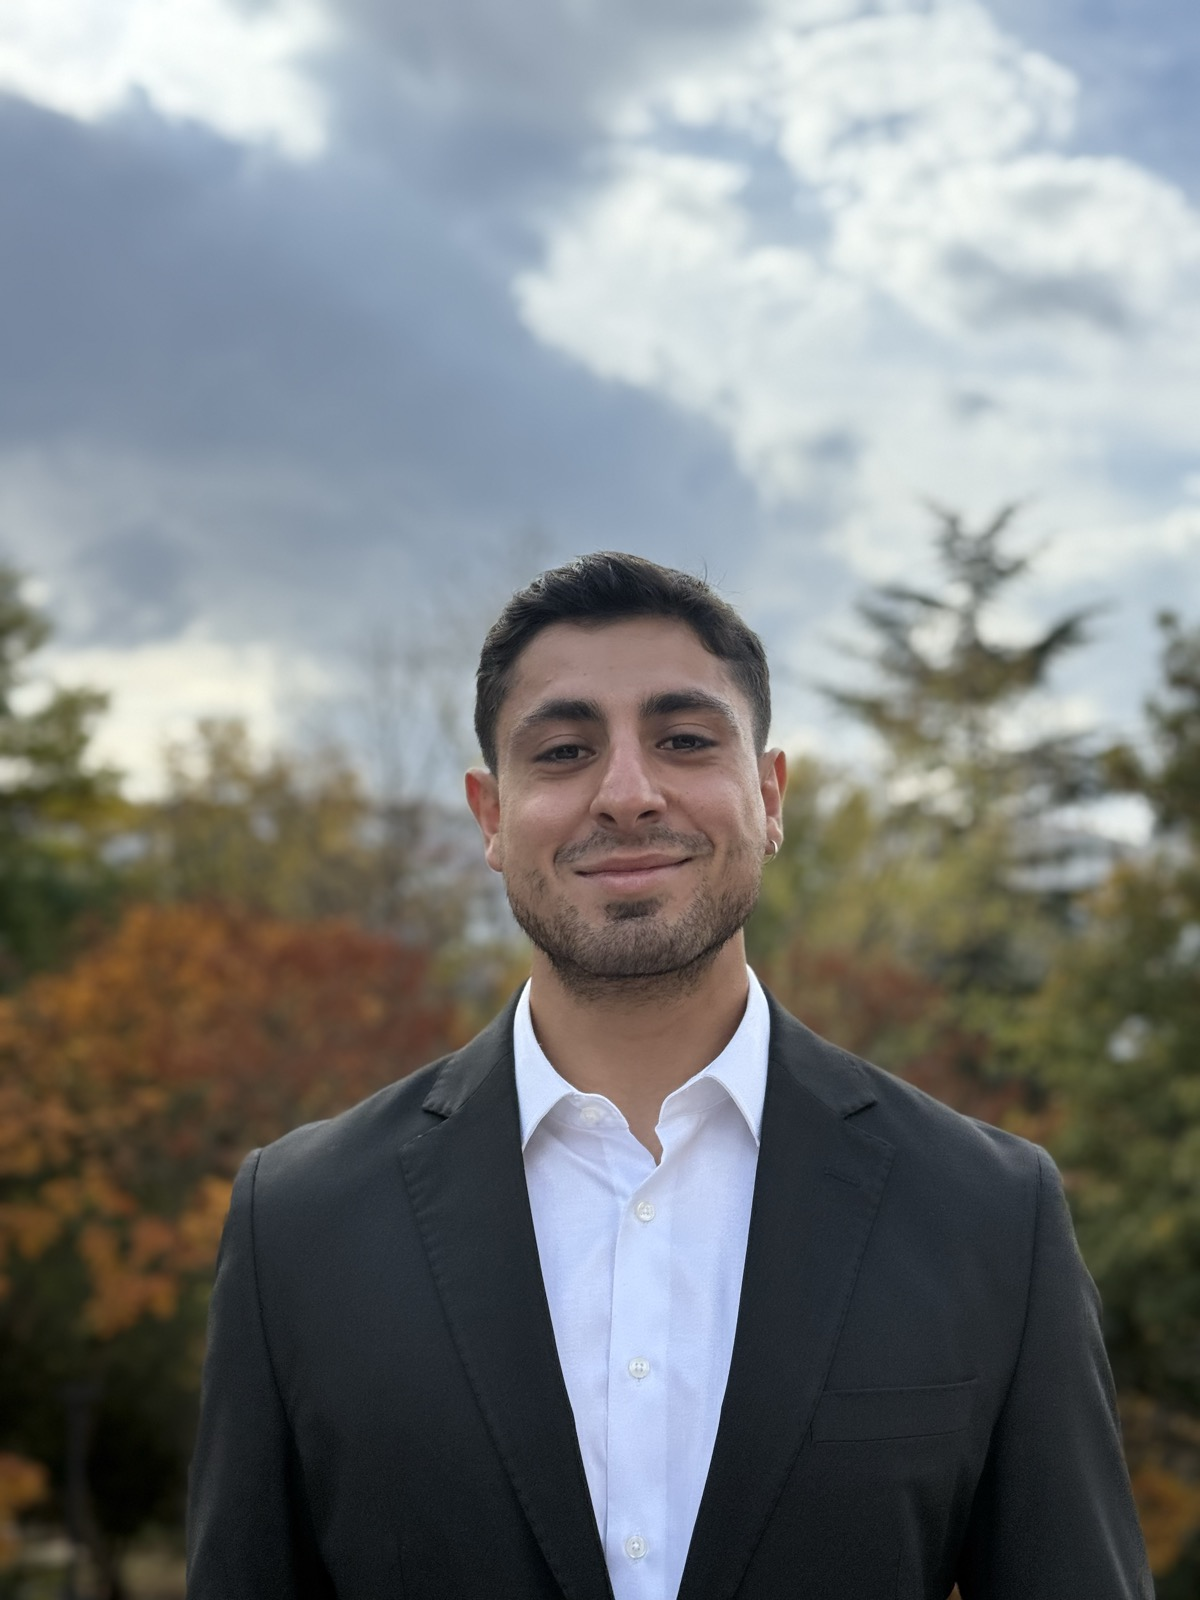
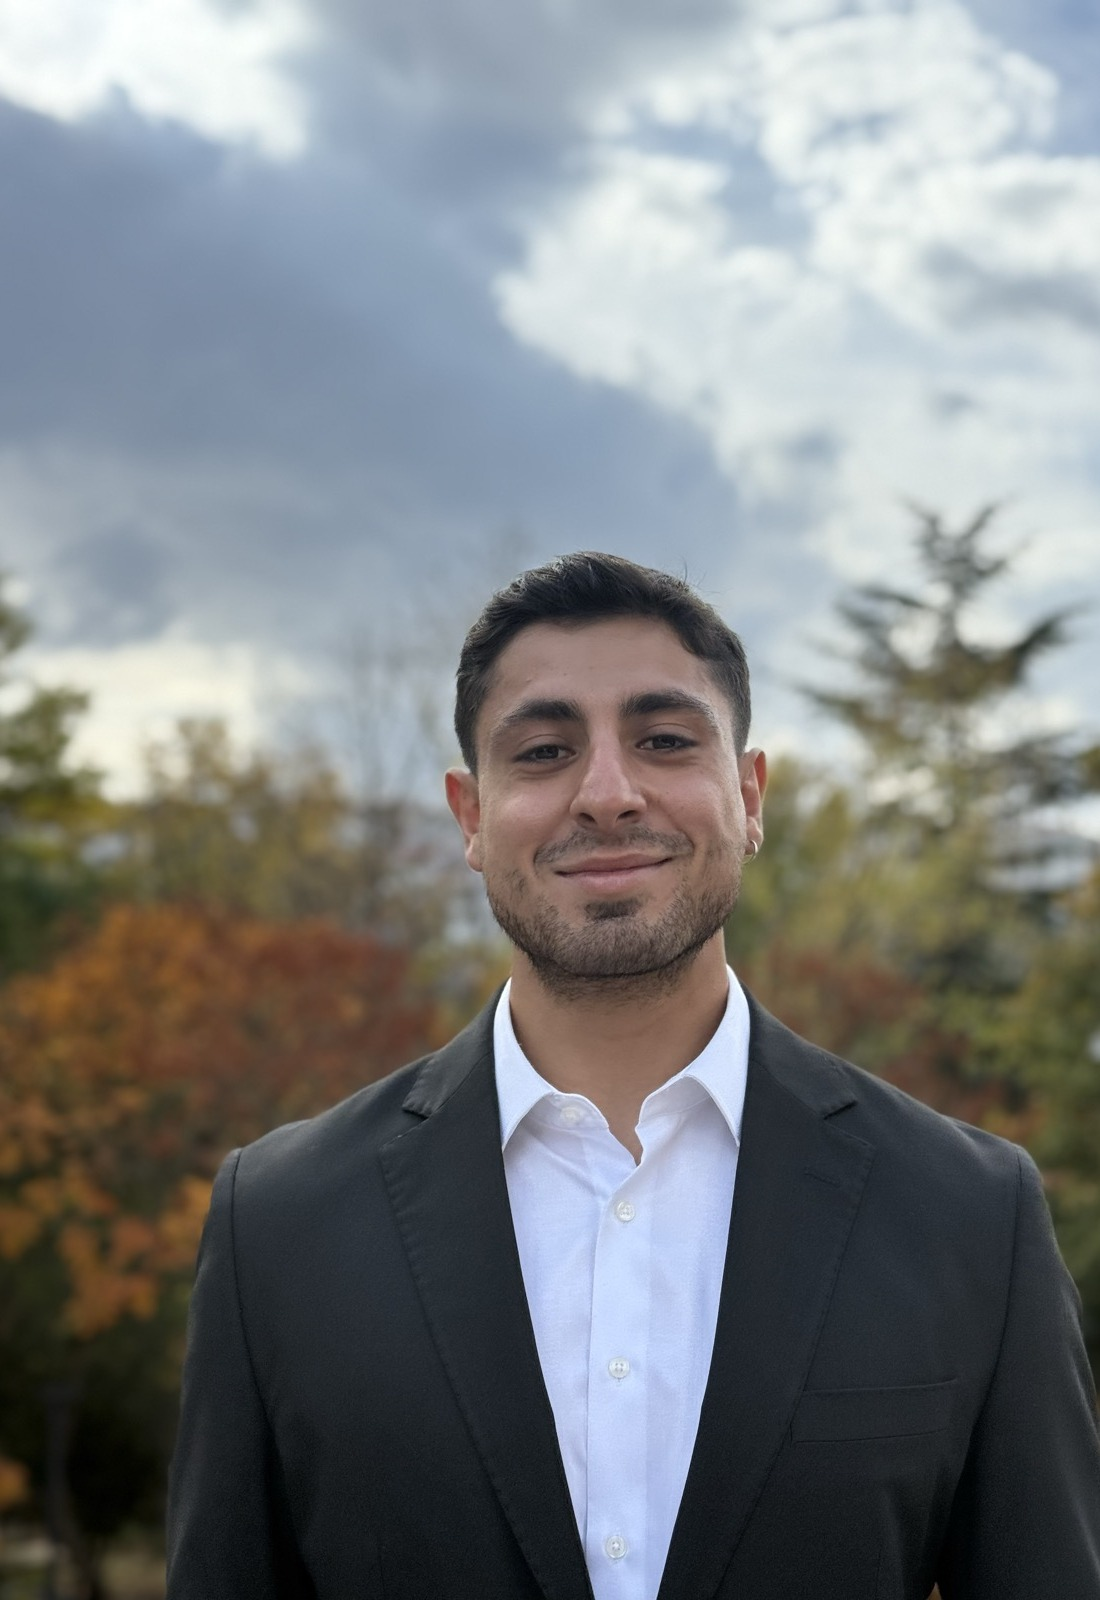
fix: Hero ince ayarları - fotoğraf yatay hizalama, ikon kartlara dönüş, atmosfer eklendi
- Profil fotoğrafı yatayda yeniden kırpıldı (yüz artık ortalı, önceden hafif
  sağa kaymış görünüyordu)
- Ahmet'in geri bildirimi: Hero'da art arda 3 kişisel fotoğraf (profil +
  2 mini kart) fazla geliyordu. Divemaster/Marathon mini kartları eski
  ikon tabanlı tasarımına geri döndürüldü — gerçek fotoğraflar zaten
  aşağıdaki büyük bölümlerde güçlü şekilde yer alıyor
- Onaylanmış "Hero Concept" mockup'ındaki hafif atmosfer efekti (iki adet
  belli belirsiz renk lekesi) gerçek koda da eklendi, unutulmuştu

diff --git a/src/components/Hero.tsx b/src/components/Hero.tsx
@@ -1,48 +1,99 @@
 import Image from "next/image";
+import type { SVGProps } from "react";
 
 const profileImageSrc = "/profile.jpg";
 const profileImageAlt = "Ahmet Can Özdemir";
+
+function IconProps(props: SVGProps<SVGSVGElement>) {
+  return {
+    xmlns: "http://www.w3.org/2000/svg",
+    viewBox: "0 0 24 24",
+    fill: "none",
+    stroke: "currentColor",
+    strokeWidth: 1.75,
+    strokeLinecap: "round" as const,
+    strokeLinejoin: "round" as const,
+    className: "h-5 w-5",
+    ...props,
+  };
+}
+
+function DivingIcon(props: SVGProps<SVGSVGElement>) {
+  return (
+    <svg {...IconProps(props)}>
+      <circle cx="12" cy="12" r="9" />
+      <path d="M8 13c1 1.5 2.3 2 4 2s3-.5 4-2" />
+      <circle cx="9" cy="10" r=".6" fill="currentColor" />
+      <circle cx="15" cy="10" r=".6" fill="currentColor" />
+    </svg>
+  );
+}
+
+function RunningIcon(props: SVGProps<SVGSVGElement>) {
+  return (
+    <svg {...IconProps(props)}>
+      <path d="M3 12h4l2 5 4-14 2 9h6" />
+    </svg>
+  );
+}
 
 function StoryCard({
   href,
   title,
   hint,
-  imageSrc,
-  imageAlt,
+  Icon,
 }: {
   href: string;
   title: string;
   hint: string;
-  imageSrc: string;
-  imageAlt: string;
+  Icon: (props: SVGProps<SVGSVGElement>) => React.JSX.Element;
 }) {
   return (
     <a
       href={href}
-      className="group relative block aspect-square overflow-hidden rounded-lg border border-border focus-visible:outline-2 focus-visible:outline-offset-2 focus-visible:outline-accent"
+      className="group flex items-center gap-3 rounded-lg border border-border bg-background p-3 transition-all hover:-translate-y-0.5 hover:border-accent focus-visible:outline-2 focus-visible:outline-offset-2 focus-visible:outline-accent"
     >
-      <Image
-        src={imageSrc}
-        alt={imageAlt}
-        fill
-        sizes="(min-width: 768px) 140px, 45vw"
-        className="object-cover transition-transform duration-300 group-hover:scale-105"
-      />
-      <div className="absolute inset-0 bg-gradient-to-t from-black/80 via-black/10 to-transparent" />
-      <div className="absolute inset-x-0 bottom-0 p-3">
-        <span className="block text-sm font-semibold text-white">
-          {title}
-        </span>
-        <span className="block text-xs text-white/80">{hint}</span>
-      </div>
+      <span className="flex h-9 w-9 flex-none items-center justify-center rounded-md bg-accent/10 text-accent">
+        <Icon />
+      </span>
+      <span className="min-w-0">
+        <span className="block text-sm font-semibold">{title}</span>
+        <span className="block truncate text-xs text-muted">{hint}</span>
+      </span>
+      <span
+        className="ml-auto text-muted transition-transform group-hover:translate-y-0.5"
+        aria-hidden="true"
+      >
+        ↓
+      </span>
     </a>
   );
 }
 
 export default function Hero() {
   return (
-    <section id="top" className="mx-auto max-w-5xl px-6 py-24 md:py-32">
-      <div className="grid gap-10 md:grid-cols-[1fr_260px] md:items-start">
+    <section
+      id="top"
+      className="relative mx-auto max-w-5xl overflow-hidden px-6 py-24 md:py-32"
+    >
+      <div
+        className="pointer-events-none absolute -top-32 -right-24 h-96 w-96 rounded-full opacity-70"
+        style={{
+          background:
+            "radial-gradient(circle, rgba(44,110,142,0.14) 0%, rgba(44,110,142,0) 70%)",
+        }}
+        aria-hidden="true"
+      />
+      <div
+        className="pointer-events-none absolute -bottom-40 -left-24 h-80 w-80 rounded-full opacity-70"
+        style={{
+          background:
+            "radial-gradient(circle, rgba(44,110,142,0.08) 0%, rgba(44,110,142,0) 70%)",
+        }}
+        aria-hidden="true"
+      />
+
+      <div className="relative grid gap-10 md:grid-cols-[1fr_260px] md:items-start">
         <div className="order-2 md:order-1">
           <p className="text-sm font-medium tracking-wide text-accent uppercase">
             Senior Data Analyst
@@ -80,15 +131,13 @@ export default function Hero() {
                 href="#diving"
                 title="Divemaster"
                 hint="Club chairman"
-                imageSrc="/diving-card.jpg"
-                imageAlt="Ahmet Can Özdemir scuba diving"
+                Icon={DivingIcon}
               />
               <StoryCard
                 href="#marathon"
                 title="Marathon"
                 hint="3:30, Istanbul"
-                imageSrc="/marathon-card.jpg"
-                imageAlt="Ahmet Can Özdemir after finishing the Istanbul Marathon"
+                Icon={RunningIcon}
               />
             </div>
           </div>
